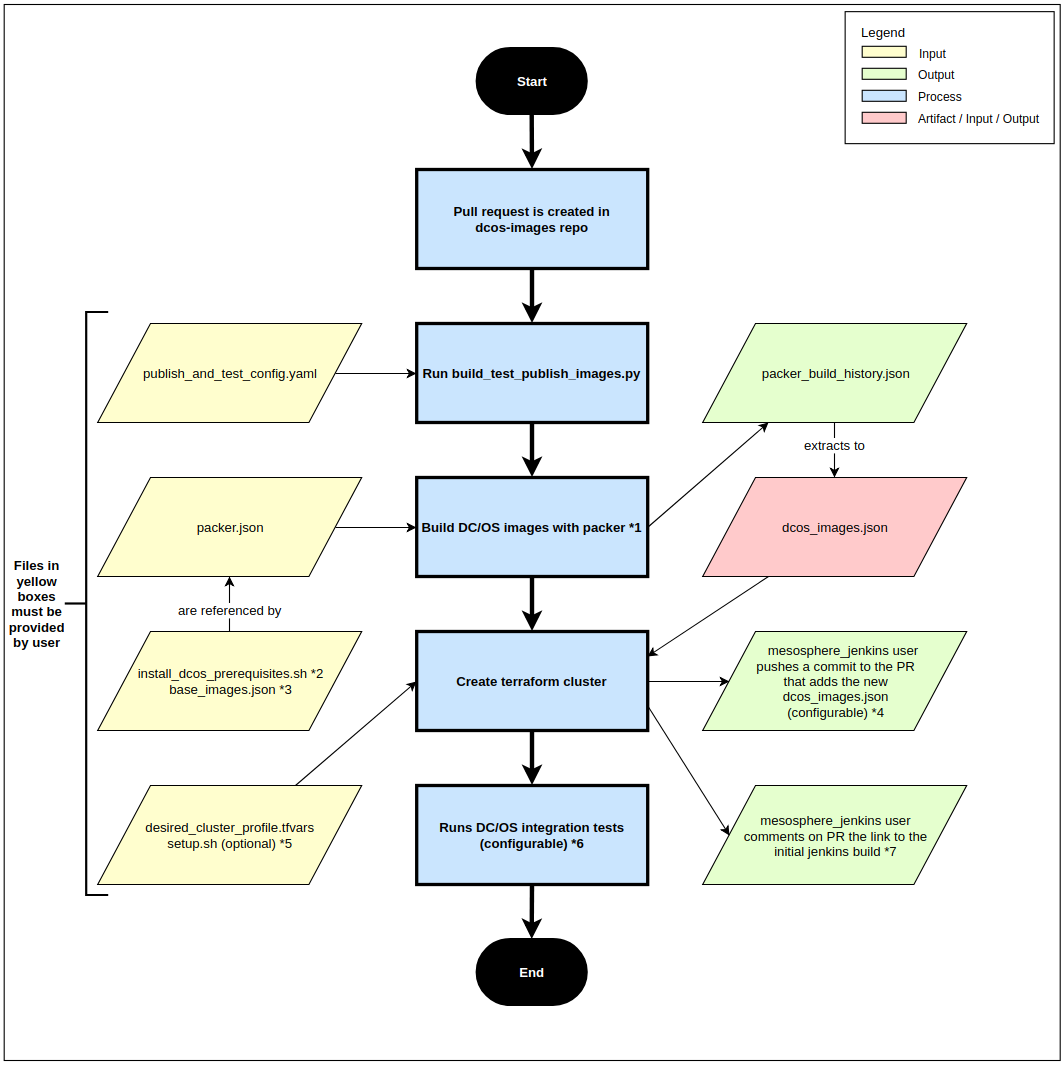
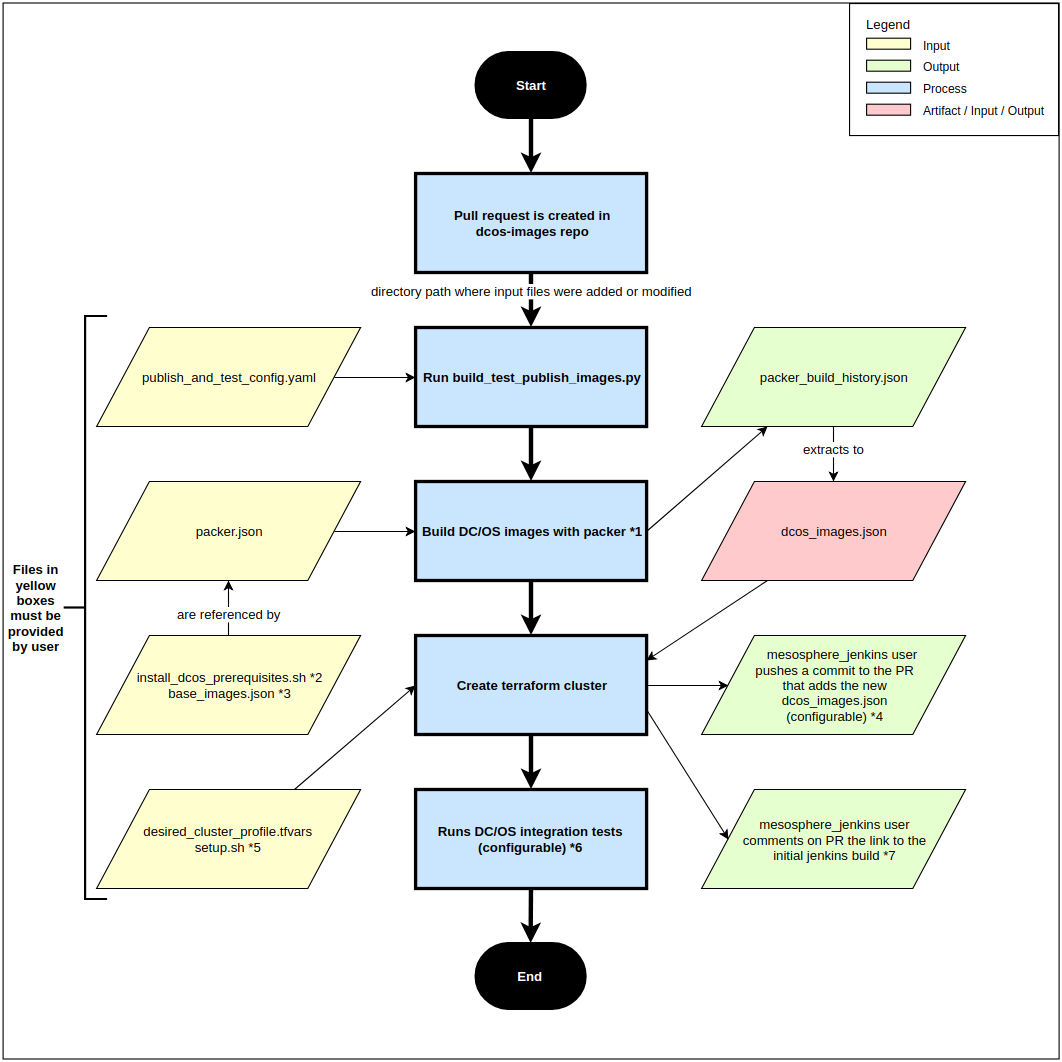
Update README 'How to build new DC/OS images section'

diff --git a/README.md b/README.md
@@ -4,11 +4,11 @@ The reference for DC/OS images and how to build them.
 The goal of this repo is to standardize, across all DC/OS users and developers, the usage and build process of OS cloud
 images to run DC/OS.
 
-## Which DC/OS image should I use?
+## Find which DC/OS image to use
 Look for the dcos_images.yaml file in the directory path that matches your requirements.  
 Example: [centos/7.4/aws/DCOS-1.11.3/docker-1.13.1/dcos_images.yaml](https://github.com/dcos/dcos-images/blob/master/centos/7.4/aws/DCOS-1.11.3/docker-1.13.1/dcos_images.yaml).
 
-## How can I see a high-level view of what we support?
+## See a high-level view of what is supported
 1. ```git clone https://github.com/dcos/dcos-images.git ~/dcos-images```
 2. ```brew install tree``` or ```apt install tree```
 3. ```cd ~/dcos-images```
@@ -16,19 +16,22 @@ Example: [centos/7.4/aws/DCOS-1.11.3/docker-1.13.1/dcos_images.yaml](https://git
 
 There's also a [DC/OS Platform Version Compatibility Matrix](https://docs.mesosphere.com/version-policy/#dcos-platform-version-compatibility-matrix)
 
-## How to build new DC/OS images  
-For the simplest use case, all it takes to trigger a build for new DC/OS images is creating a pull request with changes
-to either an install_dcos_prerequisites.sh file or packer.json file.  
+## Build and qualify new DC/OS images
+Creating a pull request that either modifies or adds an install_dcos_prerequisites.sh or a packer.json file will trigger
+a DC/OS image build. However, to have the entire pipeline succeed (image build + cluster creation + integration tests),
+three more files are required (for a total of five). As seen in the yellow-colored boxes in the flowchart below, those
+files are: **publish_and_test_config.yaml, packer.json, install_dcos_prerequisites.sh, base_images.json,
+desired_cluster_profile.tfvars and setup.sh**.  
+More details on those files [here](#required-files-to-build-and-qualify-new-dc/os-images).  
+You must place those files inside the appropriate directory in line with the specs of the DC/OS images you are going to
+build e.g. "centos/7.4/aws/DCOS-1.11.3/docker-1.13.1".
+
 ![flow-chart](flowchart_draw_io.png)  
-To modify the following chart, go to [draw.io](https://www.draw.io/) and import flowchart_draw_io.xml (located at the root level of this repo)  
-[See diagram footnotes for help](#diagram-footnotes)
+To modify the following chart, go to [draw.io](https://www.draw.io/) and import flowchart_draw_io.xml (located at the
+root level of this repo)  
+[See flowchart footnotes for help](#flowchart-footnotes)
 
-### Required config files to build new DC/OS images
-All the files required to build new DC/OS images are in the yellow-colored boxes in the diagram above   
-If you're adding a new operating system, you'll need to create all these files. You should definitely use existing ones
-as a starting point.  
-Let's go over each one:
-
+### Required files to build and qualify new DC/OS images
 - **base_images.json**  
 Contains images published directly by the OS providers (CoreOS, CentOS, etc.). You can usually find them on the
 provider's website. For example, you can find CoreOS AMIs [here](https://coreos.com/os/docs/latest/booting-on-ec2.html)
@@ -45,11 +48,11 @@ and test DC/OS with the new images.
 
 - **publish_and_test_config.yaml**  
 Determines what is required for newly-built images to be commited back to a pull request by jenkins. Also determines
-what tests are ran for on a pull request. [See this example](https://github.com/dcos/dcos-images/blob/master/oracle-linux/7.4/aws/DCOS-1.11.3/docker-1.13.1/publish_and_test_config.yaml#L1).
+what tests are ran on a pull request. [See this example](https://github.com/dcos/dcos-images/blob/master/oracle-linux/7.4/aws/DCOS-1.11.3/docker-1.13.1/publish_and_test_config.yaml#L1).
 You can specify the field 'publish_dcos_images_after' with possible values: 'packer_build', 'dcos_installation',
-'integration_tests' and 'never'. For example, if I want jenkins to push the newly-built DC/OS AMIs to my pull request as
-soon as they are built by packer, I would specify 'packer_build'. If I want more confidence and want to make sure
-a cluster can successfully spin up and install DC/OS by using this new image, I would specify 'dcos_installation'. That
+'integration_tests' and 'never'. For example, if you want jenkins to push the newly-built DC/OS AMIs to my pull request as
+soon as they are built by packer, you would specify 'packer_build'. If you want more confidence and want to make sure
+a cluster can successfully spin up and install DC/OS by using this new image, you would specify 'dcos_installation'. That
 is the default option. The 'never' is a bit different in the way that not only does it never commit the images back to
 the pull request, but it also skips building them at all. This would be to only install DC/OS and run tests against the
 current images. The 'tests_to_run' field allows you to run only specific integration tests. If you omit this field, they
@@ -58,58 +61,48 @@ will all run.
 - **setup.sh**  
 Unlike install_dcos_prerequisites.sh, this script won't be baked in DC/OS images. Instead it will only be ran by
 terraform when the cluster comes up for a pull request. This can be useful for something that needs to be done on every
-boot.
+boot. In many cases, this file can be empty, **but it still needs to exist**.
 
-As soon as a pull request is created, if either an install_dcos_prerequisites.sh file or packer.json files are changed,
-the appropriate job will be triggered to build, test and publish new AMIs. If none of these two file types are changed,
-there will only be a dry run to check that the Jenkinsfile and build_test_publish_images.py work properly.  
-When images are built, jenkins will commit them back to the pull request as a dcos_images.yaml file. Jenkins will commit
-those images right after they are built, after the cluster successfully launches, after the tests run successfully or
-never, depending on your publish_and_test_config.yaml. That commit will trigger a new jenkins build because of the
-webhook, but the Jenkinsfile will detect it and exit immediately with success. We don't want to lose the link to the real
-job that is still running the tests or creating a cluster, so jenkins will also comment on the pull request the link to
-that job. Depending on the results of that job, it will be up to you to judge if the results are good enough to merge
-the pull request and new DC/OS images in the repo.
+### Flowchart footnotes
+__*1__: In the case where we just want to test the image without rebuilding a new one, we can configure
+publish_and_test_config.yaml to skip the packer build by specifying the field 'publish_dcos_images_after: never'
+[as seen here](https://github.com/dcos/dcos-images/blob/master/oracle-linux/7.4/aws/DCOS-1.11.3/docker-1.13.1/publish_and_test_config.yaml#L2).
+This can be especially useful when a new pull request is created, several images are built, but some flaky integration
+tests fail. In that scenario, we might want to rerun the tests against those new images, in which case we would want to
+avoid rebuilding identical images to test against.
 
-### Diagram footnotes
-__*1__: install_dcos_prerequisites.sh is directly referenced inside of packer.json
+__*2__: install_dcos_prerequisites.sh is directly referenced inside of packer.json
 
-__*2__: base_images.json is NOT directly referenced in packer.json. The source_image field inside of packer.json matches
+__*3__: base_images.json is NOT directly referenced in packer.json. The source_image field inside of packer.json matches
 one of the images inside the base_image.json that existed at the time of the last packer build for that packer.json.
 That base_images.json may or may not be the same as the current one.  
 Before running a packer build, build_test_publish_images.py will replace whatever source_image the packer.json specifies
 with the current us-west-2 image in base_images.json
 
-__*3__: In the case where we just want to test the image without rebuilding a new one, we can configure
-publish_and_test_config.yaml to skip the packer build by specifying the field 'publish_dcos_images_after: never'
-[as seen here](https://github.com/dcos/dcos-images/blob/master/oracle-linux/7.4/aws/DCOS-1.11.3/docker-1.13.1/publish_and_test_config.yaml#L2).
-This can be especially useful when a new pull request is created, several images are built, but some flaky integration tests fail.
-In that scenario, we might want to rerun the tests against those new images, in which case we would want to avoid
-rebuilding identical images to test against.
-
-__*4__: The contents of setup.sh will not be baked into the resulting images DC/OS images. Instead, terraform will run that
-script only when a cluster is created with those DC/OS images.
-
-__*5__: More test suites will be added in the future, such as framework tests. Only minor modifications will need to be made
-in build_test_publish_images.py. Which integration tests are ran can be configured in publish_and_test_config.yaml
-by specifying the field 'tests_to_run' and a list of values [as seen here](https://github.com/dcos/dcos-images/blob/master/oracle-linux/7.4/aws/DCOS-1.11.3/docker-1.13.1/publish_and_test_config.yaml#L4).
-If you want to run all the tests, simply remove that field.
-
-__*6__: By default, if the terraform cluster launches successfully with the newly built images, those images will be
+__*4__: By default, if the terraform cluster launches successfully with the newly built images, those images will be
 committed back to the repo. However, this is configurable. You can decide that the images should be committed to the
 repo right after they are built, after they successfully pass the tests, or never committed at all. This can be
 configured in publish_and_test_config.yaml with the field 'publish_dcos_images_after' [as seen here](https://github.com/dcos/dcos-images/blob/master/oracle-linux/7.4/aws/DCOS-1.11.3/docker-1.13.1/publish_and_test_config.yaml#L1).  
-IMPORTANT: this new commit will retrigger the pull request and make the status check go green immediately. This does NOT mean the
-cluster created successfully or the tests successfully passed. It depends on publish_dcos_images_after field inside the 
-the publish_and_test_config.yaml. You will need to follow the link to the initial build that gets posted on the pull
-request as a comment. See *7.
+**IMPORTANT**: this new commit will trigger a new build for the pull request and make the status check go green
+immediately (auto-success when mesosphere_jenkins commit is detected). This does not mean the cluster created
+successfully or the tests successfully passed. It depends on publish_dcos_images_after field inside the
+publish_and_test_config.yaml. You will need to follow the link to the initial build that gets posted on the pull request
+as a comment. See *7.
 
-__*7__: The link to the initial jenkins build will be posted as a comment on the pull request so that it can be found easily
-after mesosphere_jenkins causes the pull request to trigger a new build by pushing a commit. Before merging a pull
-request that creates new DC/OS images, you should always follow the initial link and check the status of the terraform
-cluster creation and integration tests run. Typically, users would want mesosphere_jenkins to commit dcos_images.yaml
-after the terraform cluster creates, then follow the link to the initial jenkins build, decide if enough tests pass to
-qualify the new operating system, then either merge the pull request, retrigger the tests or update the pull request with
-bug fixes. If they just want to retrigger the tests due to potential test flakiness, they should push a new commit to
-do so, which would include a change to publish_and_test_config.yaml with the field 'publish_dcos_images_after: never' to
-avoid rebuilding identical new images.
+__*5__: The contents of setup.sh will not be baked into the resulting DC/OS images. Instead, terraform will run that
+script only when a cluster is created with those DC/OS images.
+
+__*6__: More test suites will be added in the future, such as framework tests. Only minor modifications will need to be
+made in build_test_publish_images.py. Which integration tests are ran can be configured in publish_and_test_config.yaml
+by specifying the field 'tests_to_run' and a list of values [as seen here](https://github.com/dcos/dcos-images/blob/master/oracle-linux/7.4/aws/DCOS-1.11.3/docker-1.13.1/publish_and_test_config.yaml#L4).
+If you want to run all the tests, simply remove that field.
+
+__*7__: The link to the initial jenkins build will be posted as a comment on the pull request so that it can be found
+easily after mesosphere_jenkins causes the pull request to trigger a new build by pushing a commit. Before merging a
+pull request that creates new DC/OS images, you should always follow the initial link and check the status of the
+terraform cluster creation and integration tests run. Typically, users would want mesosphere_jenkins to commit
+dcos_images.yaml after the terraform cluster creates, then follow the link to the initial jenkins build, decide if
+enough tests pass to qualify the new operating system, then either merge the pull request, retrigger the tests or update
+the pull request with bug fixes. If they just want to retrigger the tests due to potential test flakiness, they should
+push a new commit to do so, which would include a change to publish_and_test_config.yaml with the field
+'publish_dcos_images_after: never' to avoid rebuilding identical new images.
